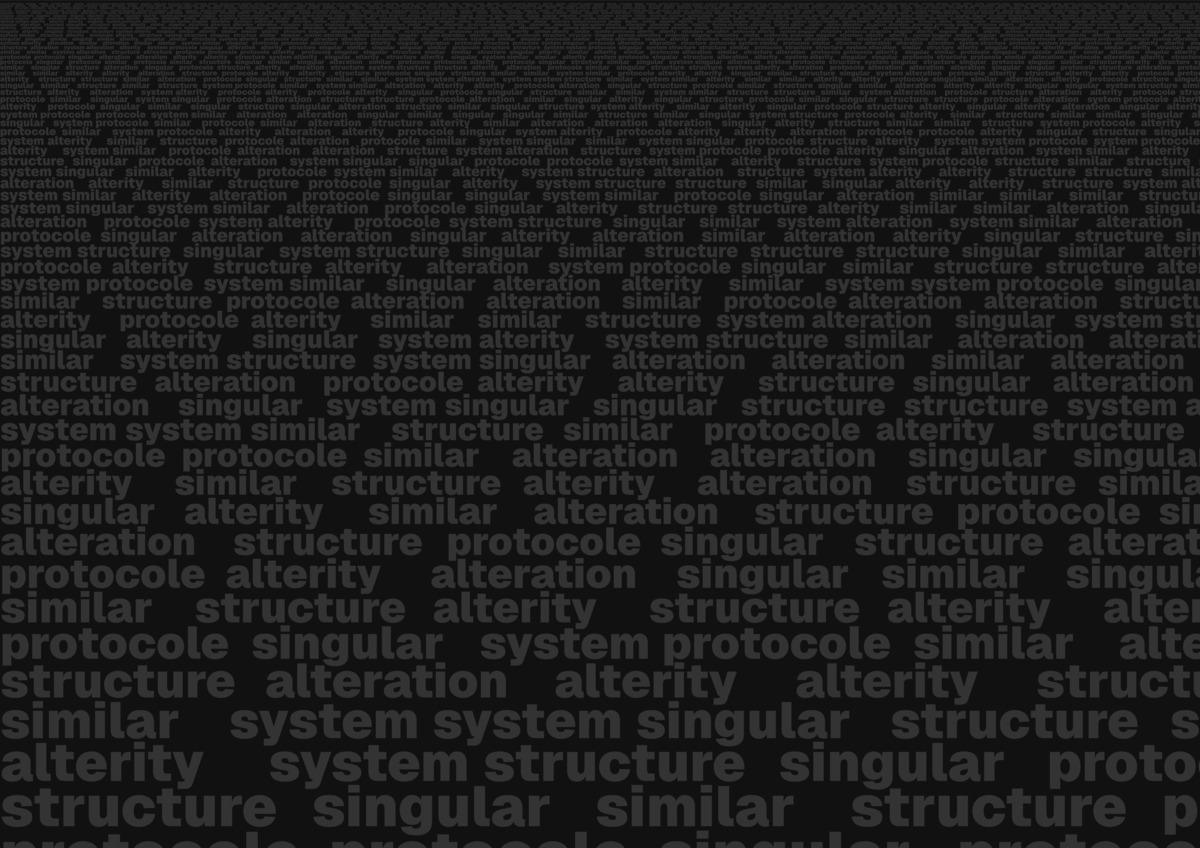
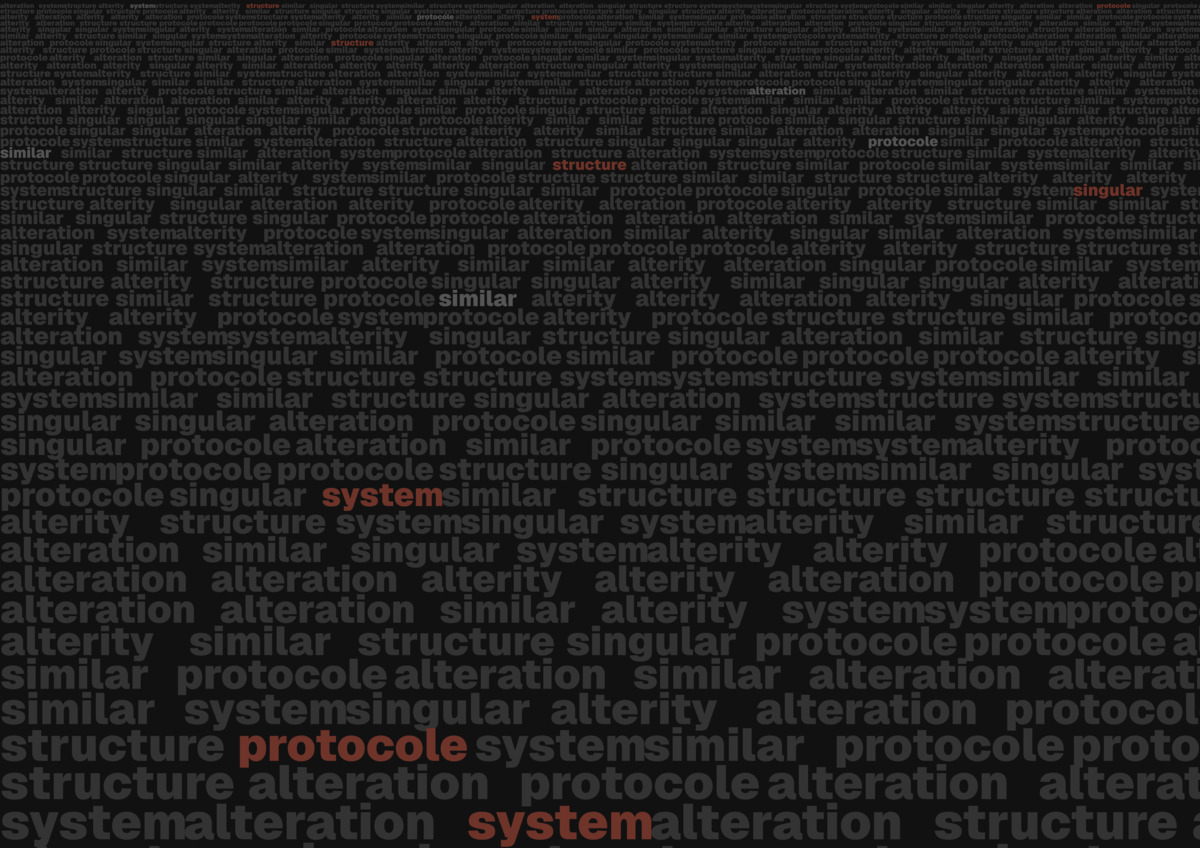
rename a sketch and add capture to another

diff --git a/sketch/the-landscape-of-my-artistic-journey/index.js b/sketch/the-landscape-of-my-artistic-journey/index.js
@@ -9,7 +9,7 @@ const ROOT = document.getElementById('windowFrame'),
     SVG = new SvgTracer({
         parentElem: ROOT,
         size: 'A3_landscape', //{ w: 45.5, h: 27 },
-        background: '#fff',
+        background: '#111',
         dpi: 300
     }),
     { floor, random } = Math
@@ -36,7 +36,7 @@ const addFontFile = () => {
 const sketch = {
     init: () => {
         const inner = [SVG.width - MARGIN * 2, SVG.height - MARGIN * 2],
-            base = 10,
+            base = 16,
             texts =
                 'singular/alterity/similar/alteration/system/protocole/structure'
                     .split('/')
@@ -44,7 +44,7 @@ const sketch = {
             incrTxtSize = 1 + Math.random() / 12
 
         let y = MARGIN,
-            fontSize = (Math.random() + 0.5) * base
+            fontSize = (Math.random() + 1.5) * base
 
         SVG.clear()
         addFontFile()
@@ -52,7 +52,7 @@ const sketch = {
             x: 0,
             y: 0,
             w: Math.ceil(SVG.width),
-            h: Math.ceil(SVG.height + 4),
+            h: Math.ceil(SVG.height + 24),
             fill: '#111'
         })
         while (y < inner[1]) {
@@ -71,11 +71,16 @@ const sketch = {
                     text,
                     fontFamily: 'Geist',
                     fontWeight: Math.round(100 + 300 * (1 - base / fontSize)),
-                    fill: '#333',
+                    fill:
+                        Math.random() < 0.01
+                            ? Math.random() < 0.5
+                                ? '#6e3329'
+                                : '#555555'
+                            : '#333',
                     anchor: 'middle'
                 })
 
-                x += textWidth + fontSize
+                x += textWidth + fontSize * 0.66
             }
             fontSize *= incrTxtSize
         }
